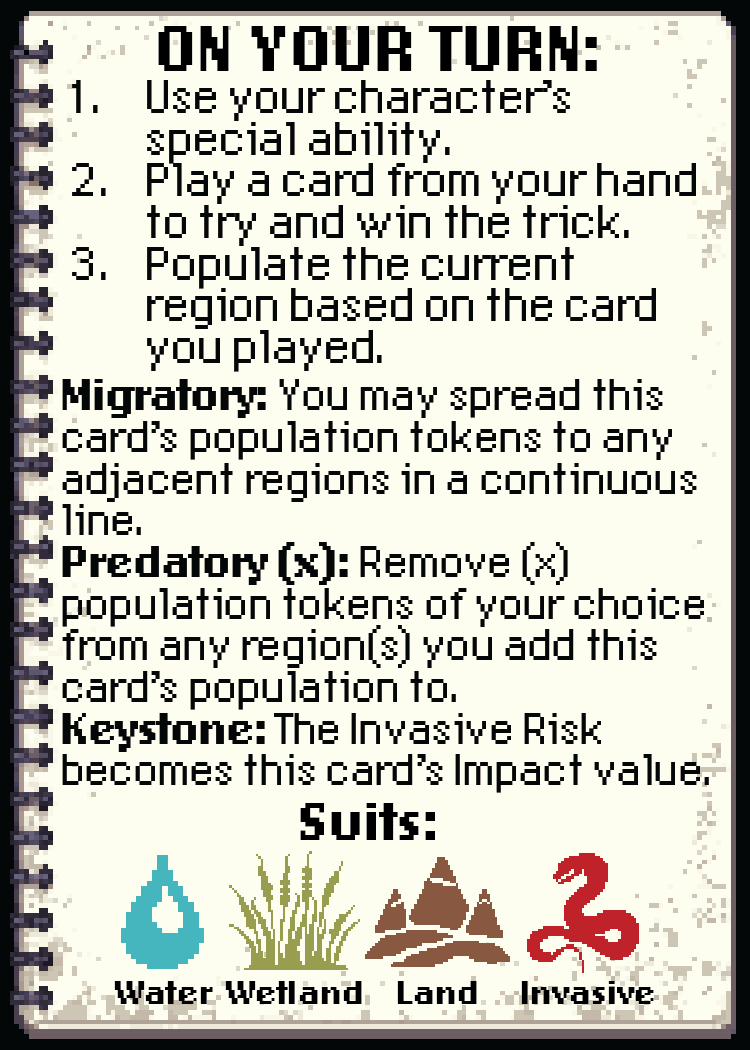
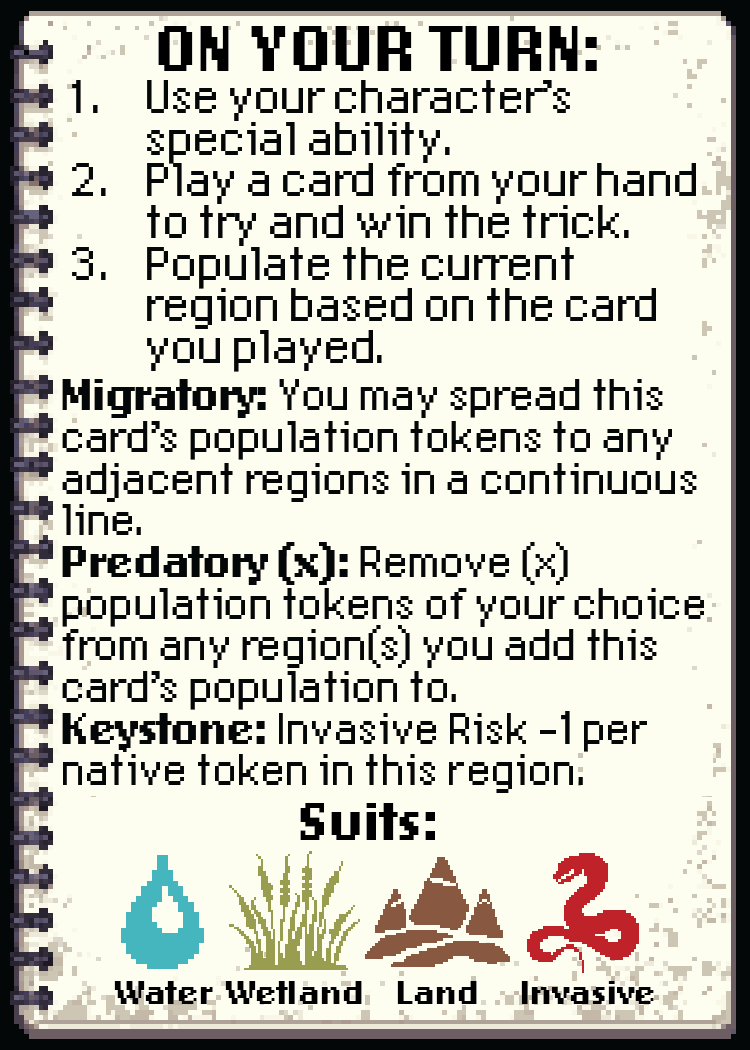
Add files via upload

Changed region(s): [[0.092, 0.6705, 0.9507, 0.7619]]

diff --git a/public/client.js b/public/client.js
@@ -8,7 +8,7 @@ const $toast = document.getElementById('toast');
 let S = null;               // latest game view from the server
 let es = null;              // live connection
 let sess = loadSess();      // { room, token }
-const ui = { confirm: null, showLog: false, unread: 0, sel: null, mode: null, swapHand: null, swapPile: null, err: '', lastRound: null, showRules: false, fresh: null };
+const ui = { dealing: false, handIntro: 0, chatSeen: 0, bubbles: {}, confirm: null, showLog: false, unread: 0, sel: null, mode: null, swapHand: null, swapPile: null, err: '', lastRound: null, showRules: false, fresh: null };
 
 const ACTIVE_ABILITY = {
   Fisherman: 'Swap with scoring pile (Water)',
@@ -96,6 +96,7 @@ const SFX = {
   crisis: () => { tone(330, 0.5, { type: 'sawtooth', to: 55, vol: 0.08 }); tone(311, 0.5, { type: 'square', to: 52, vol: 0.04, at: 0.05 }); },
   error: () => tone(140, 0.14, { vol: 0.06 }),
   start: () => notes([392, 523, 659, 784], 0.09, { type: 'triangle', vol: 0.09 }),
+  chat: () => tone(1500, 0.04, { type: 'triangle', vol: 0.03 }),
   end: () => notes([523, 659, 784, 1047, 784, 1047, 1319], 0.12, { vol: 0.06 }),
 };
 document.addEventListener('pointerdown', () => audio(), { once: true });
@@ -190,6 +191,17 @@ function onUpdate(prev) {
   }
 
   // sounds
+  // bot speech bubbles (only lines that arrive while you're watching)
+  const chat = S.chatter || [];
+  const fresh = live || (prev && prev.phase === 'lobby');
+  for (const c of chat) {
+    if (c.id <= ui.chatSeen) continue;
+    if (fresh) { ui.bubbles[c.seat] = { text: c.text, until: Date.now() + 4200, id: c.id }; SFX.chat(); }
+  }
+  if (chat.length) ui.chatSeen = Math.max(ui.chatSeen, chat[chat.length - 1].id);
+  if (!chat.length) ui.chatSeen = 0;
+  // the game just started: shuffle and deal
+  if (prev && prev.phase === 'lobby' && S.phase === 'draft') { ui.dealing = true; ui.chatSeen = 0; setTimeout(playDeal, 60); }
   if (prev && prev.phase === 'lobby') SFX.start();
   if (live) {
     const lt = S.lastTrick, key = lt ? lt.round + ':' + lt.biome : null;
@@ -352,7 +364,7 @@ function boardHtml() {
 function playersHtml(mini) {
   return S.players.map((p, i) => {
     const role = p.role ? ROLES[p.role] : null;
-    return `<div class="pl ${S.waiting === i ? 'turn' : ''}" ${role ? `data-peek="${role.img}"` : ''}>
+    return `<div class="pl ${S.waiting === i ? 'turn' : ''}" data-seat="${i}" ${role ? `data-peek="${role.img}"` : ''}>
       <div class="nm">${S.waiting === i ? '<span class="arrow">▶</span>' : ''}<span class="name">${esc(p.name)}</span>${i === S.you ? '<span class="you">(you)</span>' : ''}${p.online ? '' : '<span class="dot off" title="offline"></span>'}</div>
       ${mini ? '' : `<div class="meta">${role ? `<span class="rolename">${esc(role.name)}</span>` : '<span>choosing role…</span>'}<span>Hand ${p.handCount}</span><span>Tricks ${p.tricks}</span></div>`}
       ${!mini && S.isHost && !p.online && !p.bot && S.phase !== 'ended' ? `<button class="btn small" data-botify="${S.lobby.find(m => m.name === p.name)?.pid || ''}">Give seat to a bot</button>` : ''}
@@ -437,7 +449,7 @@ function renderGame() {
     const c = CARDS[id];
     const over = S.trick && c.kind === 'Invasive' && c.impact > S.trick.risk;
     const badge = over ? `<div class="overrisk" title="Impact ${c.impact} is above the Invasive Risk (${S.trick.risk}): this card can't win the trick, but it still populates."><span>!</span></div>` : '';
-    return `<div class="slot">${cardEl(id, `${cls} ${ui.sel === id ? 'sel' : ''}`, `data-hand="${id}"`, '', badge)}</div>`;
+    return `<div class="slot" style="--i:${hand.indexOf(id)}">${cardEl(id, `${cls} ${ui.sel === id ? 'sel' : ''}`, `data-hand="${id}"`, '', badge)}</div>`;
   }).join('') || '<span class="hint" style="color:var(--blush)">No cards in hand.</span>';
   const role = S.role ? ROLES[S.role] : null;
   if (peekSrc && !document.querySelector(`[data-peek="${peekSrc}"]`)) { /* card may have left; checked after render */ }
@@ -466,7 +478,7 @@ function renderGame() {
     <section class="handarea">
       ${promptHtml()}
       <div class="handrow">
-        <div class="hand">${handHtml}</div>
+        <div class="hand ${ui.dealing ? 'dealing' : ''} ${Date.now() - (ui.handIntro || 0) < 1400 ? 'intro' : ''}">${handHtml}</div>
         ${role ? `<div class="rolebox"><div class="cap">You are the <b>${esc(role.name)}</b></div><div class="card" data-peek="${role.img}"><img src="${role.img}" alt="${esc(role.name)}"></div></div>` : ''}
       </div>
     </section>
@@ -479,6 +491,7 @@ function renderGame() {
   if (peekSrc && !document.querySelector(`[data-peek="${CSS.escape(peekSrc)}"]`)) hidePeek();
   const logEl = document.getElementById('log'); if (logEl) logEl.scrollTop = logEl.scrollHeight;
   wire();
+  placeBubbles();
 }
 
 function promptHtml() {
@@ -545,7 +558,7 @@ function rulesModal() {
       <img src="assets/ref-back.png" data-peek="assets/ref-back.png" alt="Playing tricks" style="width:min(240px,30%);border:3px solid var(--ink)">
       <div class="hint" style="flex:1;min-width:0;color:var(--ink)">
         <p style="margin-top:0"><b>Setup:</b> after the cards are dealt, players choose roles one at a time in turn order.</p><p><b>Each round:</b> the lead player picks a biome from the travel row. Everyone plays one card, in order.</p>
-        <p><b>Winning:</b> the highest-Impact card that matches the biome's type wins. Invasive cards match too if their Impact is at or below the current Invasive Risk. If nothing matches, the highest Impact card wins.</p>
+        <p><b>Winning:</b> the highest-Impact card that matches the biome's type wins. Invasive cards match too if their Impact is at or below the current Invasive Risk. A <b>Keystone</b> card lowers the Risk by the number of Native tokens in the region. If nothing matches, the highest Impact card wins.</p>
         <p><b>Invasive Crisis:</b> if an Invasive card wins, each region loses 1 Native token per Invasive token there (or 1 Invasive token if it has only Invasives).</p>
         <p><b>Scoring:</b> 5 points per trick, plus the objectives on your role card. Everyone's role is public — hover a name to read it.</p>
       </div>
@@ -606,6 +619,102 @@ function confirmModal() {
     </div>
     <label class="hint" style="display:flex;gap:8px;align-items:center;margin-top:12px;cursor:pointer"><input type="checkbox" id="cfOff"> Don't warn me again this game</label>
   </div></div>`;
+}
+
+// ---------- bot speech bubbles ----------
+const $bubbles = document.getElementById('bubbles');
+function placeBubbles() {
+  if (!$bubbles) return;
+  const now = Date.now();
+  let html = '';
+  for (const [seat, b] of Object.entries(ui.bubbles)) {
+    if (b.until < now || !S || !S.players || !S.players[seat]) { delete ui.bubbles[seat]; continue; }
+    const rows = [...document.querySelectorAll(`.pl[data-seat="${seat}"]`)].filter(el => el.offsetParent);
+    if (!rows.length) continue;
+    const r = rows[0].getBoundingClientRect();
+    const below = r.right + 260 > innerWidth;         // no room on the right: hang it underneath instead
+    const x = below ? Math.max(8, r.left) : r.right + 12;
+    const y = below ? r.bottom + 8 : r.top + 4;
+    html += `<div class="bubble ${below ? 'below' : ''}" data-id="${b.id}" style="left:${x}px;top:${y}px">${esc(b.text)}</div>`;
+  }
+  // keep existing bubbles (so their pop-in animation doesn't replay), add new ones
+  const keep = new Set([...$bubbles.children].map(el => el.dataset.id));
+  const tmp = document.createElement('div'); tmp.innerHTML = html;
+  const want = new Set([...tmp.children].map(el => el.dataset.id));
+  [...$bubbles.children].forEach(el => { if (!want.has(el.dataset.id)) el.remove(); });
+  [...tmp.children].forEach(el => {
+    const old = $bubbles.querySelector(`[data-id="${el.dataset.id}"]`);
+    if (old) { old.style.left = el.style.left; old.style.top = el.style.top; old.className = el.className; }
+    else $bubbles.appendChild(el);
+  });
+  void keep;
+}
+setInterval(() => { if (Object.keys(ui.bubbles).length) placeBubbles(); }, 500);
+addEventListener('resize', () => placeBubbles());
+
+// ---------- shuffle and deal animation at the start of a game ----------
+const $deal = document.getElementById('deal');
+function finishDeal() {
+  if (!ui.dealing) return;
+  ui.dealing = false; ui.handIntro = Date.now();
+  $deal.innerHTML = ''; $deal.classList.add('hidden');
+  render();
+}
+async function playDeal() {
+  if (!$deal || matchMedia('(prefers-reduced-motion: reduce)').matches) return finishDeal();
+  const wait = ms => new Promise(r => setTimeout(r, ms));
+  const area = (document.querySelector('.tablecol') || document.body).getBoundingClientRect();
+  const W = Math.min(130, area.width / 5), H = W * 1.4;
+  const cx = area.left + area.width / 2 - W / 2, cy = area.top + area.height / 2 - H / 2;
+  $deal.classList.remove('hidden');
+  $deal.innerHTML = `<div class="deal-title">Shuffling the Ecology deck…</div>`;
+  $deal.onclick = finishDeal;
+  const N = 14, cards = [];
+  for (let i = 0; i < N; i++) {
+    const el = document.createElement('img');
+    el.src = 'assets/ecology-back.png'; el.className = 'deal-card';
+    Object.assign(el.style, { width: W + 'px', height: H + 'px', left: cx + 'px', top: cy - i * 1.5 + 'px', zIndex: i });
+    $deal.appendChild(el); cards.push(el);
+  }
+  const title = $deal.querySelector('.deal-title');
+  Object.assign(title.style, { left: area.left + area.width / 2 + 'px', top: cy - 60 + 'px' });
+  // three riffle shuffles: split left/right, then zip back together
+  for (let round = 0; round < 3 && ui.dealing; round++) {
+    cards.forEach((el, i) => el.animate([{ transform: 'none' }, { transform: `translate(${i % 2 ? 80 : -80}px, ${(i % 2 ? -1 : 1) * 6}px) rotate(${i % 2 ? 8 : -8}deg)` }],
+      { duration: 220, easing: 'steps(4)', fill: 'forwards' }));
+    SFX.card(); await wait(260);
+    cards.forEach((el, i) => el.animate([{ transform: `translate(${i % 2 ? 80 : -80}px, 0) rotate(${i % 2 ? 8 : -8}deg)` }, { transform: 'none' }],
+      { duration: 160, delay: i * 18, easing: 'steps(3)', fill: 'forwards' }));
+    for (let k = 0; k < 5; k++) setTimeout(() => tone(1800 + Math.random() * 600, 0.015, { type: 'square', vol: 0.025 }), k * 45);
+    await wait(160 + N * 18 + 80);
+  }
+  if (!ui.dealing) return;
+  // deal: cards fly to every seat, three times around the table
+  title.textContent = 'Dealing…';
+  const seats = S.players.map((p, i) => {
+    if (i === S.you) { const h = document.querySelector('.hand'); if (h) { const r = h.getBoundingClientRect(); return { x: r.left + r.width / 2 - W / 2, y: r.top + 10 }; } }
+    const row = [...document.querySelectorAll(`.pl[data-seat="${i}"]`)].find(el => el.offsetParent);
+    if (row) { const r = row.getBoundingClientRect(); return { x: r.left + r.width / 2 - W / 2, y: r.top + r.height / 2 - H / 2 }; }
+    return { x: cx, y: -H };
+  });
+  for (let round = 0; round < 3 && ui.dealing; round++) {
+    for (let i = 0; i < seats.length && ui.dealing; i++) {
+      const el = document.createElement('img');
+      el.src = 'assets/ecology-back.png'; el.className = 'deal-card';
+      Object.assign(el.style, { width: W + 'px', height: H + 'px', left: cx + 'px', top: cy - N * 1.5 + 'px', zIndex: 100 });
+      $deal.appendChild(el);
+      const t = seats[i], spin = (Math.random() - 0.5) * 40;
+      const anim = el.animate([
+        { transform: 'translate(0,0) rotate(0deg) scale(1)', opacity: 1 },
+        { transform: `translate(${t.x - cx}px, ${t.y - (cy - N * 1.5)}px) rotate(${spin}deg) scale(${i === S.you ? 1 : 0.45})`, opacity: i === S.you ? 1 : 0.15 },
+      ], { duration: 340, easing: 'cubic-bezier(.3,.7,.3,1)', fill: 'forwards' });
+      anim.onfinish = () => el.remove();
+      tone(i === S.you ? 900 : 700, 0.03, { vol: 0.04 });
+      await wait(110);
+    }
+  }
+  await wait(380);
+  finishDeal();
 }
 
 // ---------- wiring ----------

diff --git a/public/style.css b/public/style.css
@@ -314,3 +314,31 @@ input.field:focus { outline: 3px solid var(--brass); }
   display: flex; align-items: flex-end; justify-content: center; padding-bottom: 6%;
   color: #fff; font-weight: 700; font-size: calc((100cqh - 66px) * .25); line-height: 1;
 }
+
+/* bot speech bubbles, pinned next to the bot's name */
+#bubbles { position: fixed; inset: 0; pointer-events: none; z-index: 55; }
+.bubble {
+  position: fixed; max-width: 240px; padding: 5px 9px; background: #fff; color: var(--ink);
+  border: 3px solid var(--ink); box-shadow: 3px 3px 0 rgba(0,0,0,.45);
+  font-family: 'EGDigits', 'VT323', monospace; font-size: 19px; line-height: 1.05;
+  animation: bubblein .18s steps(3);
+}
+.bubble::before { /* pixel tail pointing at the name */
+  content: ''; position: absolute; left: -12px; top: 8px; width: 12px; height: 12px; background: var(--ink);
+  clip-path: polygon(100% 0, 0 50%, 100% 100%);
+}
+.bubble::after { content: ''; position: absolute; left: -6px; top: 11px; width: 7px; height: 6px; background: #fff; clip-path: polygon(100% 0, 0 50%, 100% 100%); }
+.bubble.below::before { left: 12px; top: -12px; clip-path: polygon(0 100%, 50% 0, 100% 100%); }
+.bubble.below::after { left: 15px; top: -6px; clip-path: polygon(0 100%, 50% 0, 100% 100%); }
+@keyframes bubblein { from { transform: scale(.6); opacity: 0; } }
+
+/* shuffle & deal */
+.deal { position: fixed; inset: 0; z-index: 65; background: rgba(20, 12, 8, .35); cursor: pointer; }
+.deal-card { position: fixed; border: 3px solid var(--ink); box-shadow: 3px 3px 0 rgba(0,0,0,.5); image-rendering: pixelated; }
+.deal-title {
+  position: fixed; transform: translateX(-50%); padding: 4px 12px; background: var(--paper); border: 3px solid var(--ink);
+  box-shadow: 3px 3px 0 var(--ink); font-weight: 700; font-size: 20px; white-space: nowrap;
+}
+.hand.dealing .slot { visibility: hidden; }
+.hand.intro .slot .card { animation: flipin .45s steps(5) both; animation-delay: calc(var(--i) * 60ms); }
+@keyframes flipin { from { transform: translateY(40px) rotateY(90deg); opacity: 0; } }

diff --git a/public/index.html b/public/index.html
@@ -14,6 +14,8 @@
 <div id="app"></div>
 <div id="peek" class="peek hidden"></div>
 <div id="toast" class="toast hidden"></div>
+<div id="bubbles"></div>
+<div id="deal" class="deal hidden" title="Click to skip"></div>
 <script src="data.js"></script>
 <script src="client.js"></script>
 </body>
